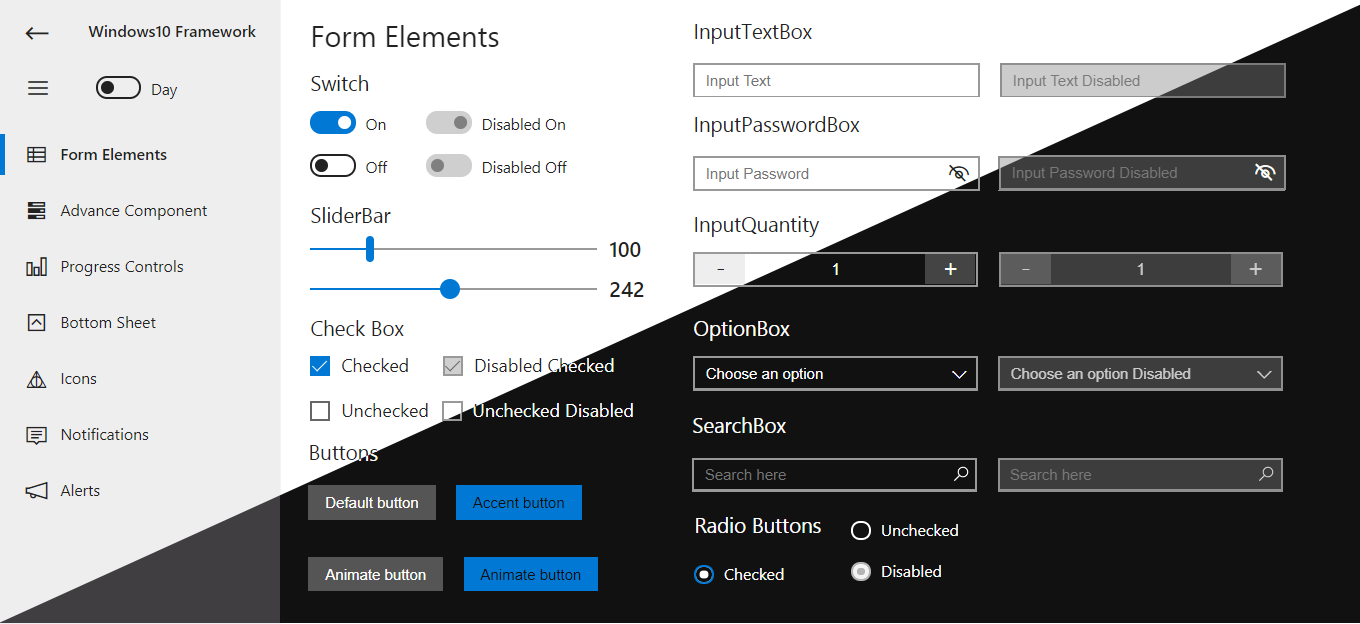
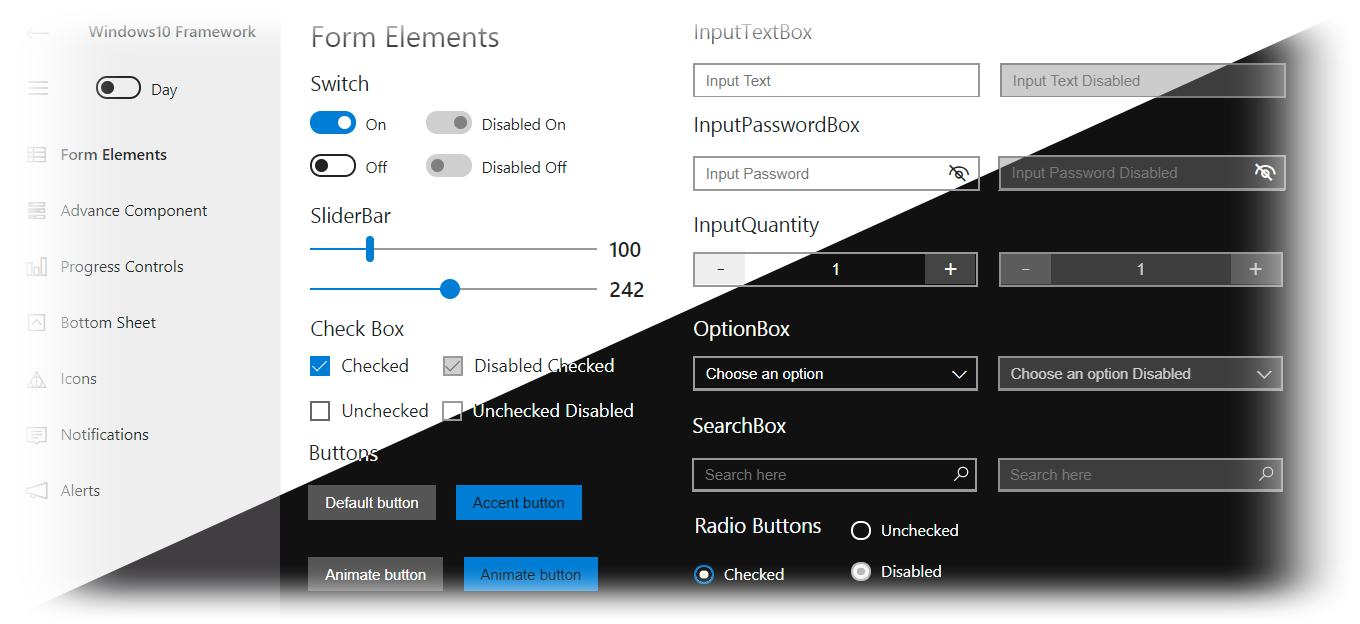
added docs.

diff --git a/index.html b/index.html
@@ -33,7 +33,7 @@
              </button>
              <br>
              <div>
-                <a href="#" target="_blank" class="win-header-text-below">Docs</a> &nbsp;&nbsp;
+                <a href="#docs" class="win-header-text-below">Docs</a> &nbsp;&nbsp;
                 <a href="#" target="_blank" class="win-header-text-below">Templates</a> &nbsp;&nbsp;
                 <a href="https://github.com/virtualvivek/Windows10-framework/" target="_blank" class="win-header-text-below">
                     <i></i> &acute;Repository</a> &nbsp;&nbsp;
@@ -71,78 +71,49 @@
             <img src="src/img/img_app_framework_icons.jpg" class="win-img-framework-icons"/>
         </div>
     
+<!--
         <h2 class="win-header-center">Light/Dark Easy Switch</h2>
         <div class="win-img-framework-icons-wrap">
             <img src="src/img/app_img_daynight.png" class="win-img-framework-icons"/>
         </div>
+-->
 		
    
     
-<!--
-        <h2 class="win-header-center">Components</h2>
+        <h2 class="win-header-center" id="docs">Components</h2>
         <div class="links">
-            <a href="/docs/">
-                <img src="src/img/img_app_promo.png"/>
-                <div class="link-title">Framework7 Core</div>
-                <div class="link-text">Core JavaScript Framework</div>
+            <a href="https://github.com/virtualvivek/Windows10-framework/blob/master/src/core/docs/forms/README.md">
+                <img src="src/img/docs/docs_form.png"/>
+                <div class="link-title">Form Elements</div>
+                <div class="link-text">Collection of UI Inputs</div>
             </a>
-            <a href="/vue/">
-                <img src="src/img/img_app_promo.png"/>
-                <div class="link-title">Framework7 Vue</div>
-                <div class="link-text">Framework7 Vue.js Components</div>
+            <a href="https://github.com/virtualvivek/Windows10-framework/blob/master/src/core/docs/forms/README.md">
+                <img src="src/img/docs/docs_progress_controls.png"/>
+                <div class="link-title">Progress Controls</div>
+                <div class="link-text">Different app progress controls</div>
             </a>
-            <a href="/react/">
-                <img src="src/img/img_app_promo.png"/>
-                <div class="link-title">Framework7 React</div>
-                <div class="link-text">Framework7 React Components</div>
+            <a href="https://github.com/virtualvivek/Windows10-framework/blob/master/src/core/docs/forms/README.md">
+                <img src="src/img/docs/docs_icons.png"/>
+                <div class="link-title">Icon Sets</div>
+                <div class="link-text">Collection of UWP icons</div>
             </a>
-            <a href="/svelte/">
-                <img src="src/img/img_app_promo.png"/>
-                <div class="link-title">Framework7 Svelte</div>
-                <div class="link-text">Framework7 Svelte Components</div>
+            <a href="https://github.com/virtualvivek/Windows10-framework/blob/master/src/core/docs/forms/README.md">
+                <img src="src/img/docs/docs_bottomsheet.png"/>
+                <div class="link-title">Bottom Sheet</div>
+                <div class="link-text">Popup Bottom component</div>
             </a>
-            <a href="/cli/">
-                <img src="src/img/img_app_promo.png"/>
-                <div class="link-title">Framework7 CLI</div>
-                <div class="link-text">Ultimate tool to start Framework7 app development</div>
+            <a href="https://github.com/virtualvivek/Windows10-framework/blob/master/src/core/docs/forms/README.md">
+                <img src="src/img/docs/docs_alerts.png"/>
+                <div class="link-title">Alerts</div>
+                <div class="link-text">App dialog alerts</div>
             </a>
-            <a href="/icons/">
-                <img src="src/img/img_app_promo.png"/>
-                <div class="link-title">Framework7 Icons</div>
-                <div class="link-text">Ultimate collection of ready to use icons</div>
+            <a href="https://github.com/virtualvivek/Windows10-framework/blob/master/src/core/docs/forms/README.md">
+                <img src="src/img/docs/docs_notifications.png"/>
+                <div class="link-title">Notification</div>
+                <div class="link-text">App push notifications</div>
             </a>
-            <a href="/templates/">
-                <img src="src/img/img_app_promo.png"/>
-                <div class="link-title">Templates</div>
-                <div class="link-text">Official and community starter apps and templates</div>
-            </a>
-            <a href="/plugins/">
-                <img src="src/img/img_app_promo.png"/>
-                <div class="link-title">Plugins</div>
-                <div class="link-text">Collection of official and community plugins</div>
-            </a>
-            <a href="https://jobs.framework7.io">
-                <img src="src/img/img_app_promo.png"/>
-                <div class="link-title">Jobs &amp; Developers</div>
-                <div class="link-text">Framework7 jobs &amp; developers portal</div>
-            </a>
-            <a href="https://forum.framework7.io">
-                <img src="src/img/img_app_promo.png"/>
-                <div class="link-title">Forum</div>
-                <div class="link-text">Community forum and support</div>
-            </a>
-            <a href="https://blog.framework7.io">
-                <img src="src/img/img_app_promo.png"/>
-                <div class="link-title">Blog</div>
-                <div class="link-text">Official Framework7 blog</div>
-            </a>
-            <a href="/showcase/">
-                <img src="src/img/img_app_promo.png"/>
-                <div class="link-title">Apps Showcase</div>
-                <div class="link-text">Showcase of apps made with Framework7</div>
-            </a>
+           
         </div>
--->
 
       
         <div>

diff --git a/src/styles.css b/src/styles.css
@@ -37,7 +37,6 @@ body{
     margin-top: -25px;
     width: 360px;
     font-weight: 500;
-    filter: drop-shadow(0px 1px 40px black);
 }
 .app-logo-sub-header{
     font-size: 62px;
@@ -176,7 +175,12 @@ body{
 .win-sub-header-demo-button{
     width: 240px;
     object-fit: contain;
-    margin-top: -25px;
+    margin-top: -28px;
+    box-shadow: 0 10px 20px #555;
+    transition: .2s;
+}
+.win-sub-header-demo-button:hover{
+    box-shadow: 0 15px 25px #555;
 }
 .win-img-framework-icons-wrap{
     width: 82%;
@@ -198,12 +202,12 @@ body{
     max-width: 1000px;
 }
 .links img{
-    width: 200px
+    width: 250px
 }
 .links a{
     text-decoration: none;
     color: #444;
-    width: 25%;
+    width: 33%;
     margin-bottom: 40px;
     box-sizing: border-box;
     padding: 15px;
